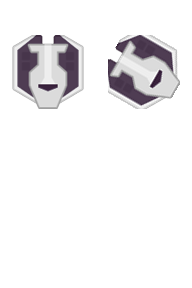
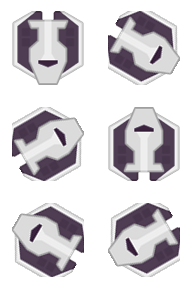
修Boss闪没:boss.png六帧错排成1行x6列被画布裁掉只剩0/1帧(游戏6帧轮转,4帧透明=闪烁),y向还跨格污染邻格;改回2列x3行行主序与gen_stg_neon/stg_draw取帧一致,六帧目检齐

diff --git a/Main/tools/assets/apply_kenney_art.py b/Main/tools/assets/apply_kenney_art.py
@@ -169,7 +169,8 @@ def do_boss(src):
     sheet = Image.new("RGBA", (192, 288), (0, 0, 0, 0))
     for k in range(6):
         f = rot(boss, k * 60) if k else boss.copy()
-        sheet.paste(f, (96 * k + (96 - f.width) // 2, (288 // 2 - f.height) // 2), f)
+        ox, oy = (k % 2) * 96, (k // 2) * 96          # 2 列 x 3 行,与 gen_stg_neon 和 stg_draw 的取帧一致
+        sheet.paste(f, (ox + (96 - f.width) // 2, oy + (96 - f.height) // 2), f)
     sheet.save(os.path.join(NEON, "boss.png"))
     print("boss.png   192x288 ok")
 
